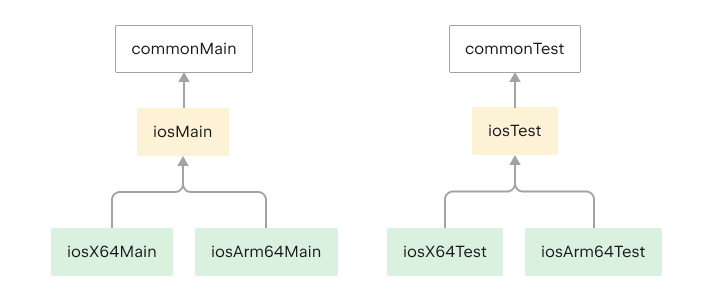
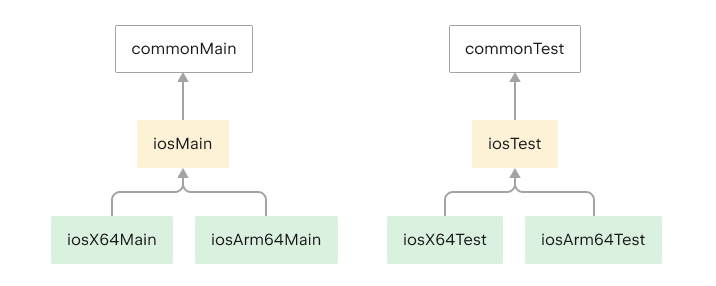
update: new schemes

diff --git a/docs/topics/multiplatform/multiplatform-hierarchy.md b/docs/topics/multiplatform/multiplatform-hierarchy.md
@@ -155,7 +155,7 @@ kotlin {
 In this case, the hierarchical structure includes intermediate source sets `iosMain` and `iosTest`,
 which are used by the platform-specific source sets:
 
-![Code shared for iOS targets](iosmain-hierarchy.png){width=400}
+![Code shared for iOS targets](iosmain-hierarchy.png)
 
 The resulting hierarchical structure will look like this:
 
@@ -257,13 +257,15 @@ To create the hierarchical structure manually, introduce an intermediate source 
 several
 targets and create a structure of the source sets including the intermediate one.
 
-![Hierarchical structure](hierarchical-structure.png)
-
 For example, if you want to share code among native Linux, Windows, and macOS targets – `linuxX64M`, `mingwX64`, and
 `macosX64`:
 
+![Manually configured hierarchical structure](manual-hierarchical-structure.png)
+
 1. Add the intermediate source set `desktopMain` that holds the shared logic for these targets.
 2. Specify the hierarchy of source sets using the `dependsOn` relation.
+
+The resulting hierarchical structure will look like this:
 
 <tabs group="build-script">
 <tab title="Kotlin" group-key="kotlin">
